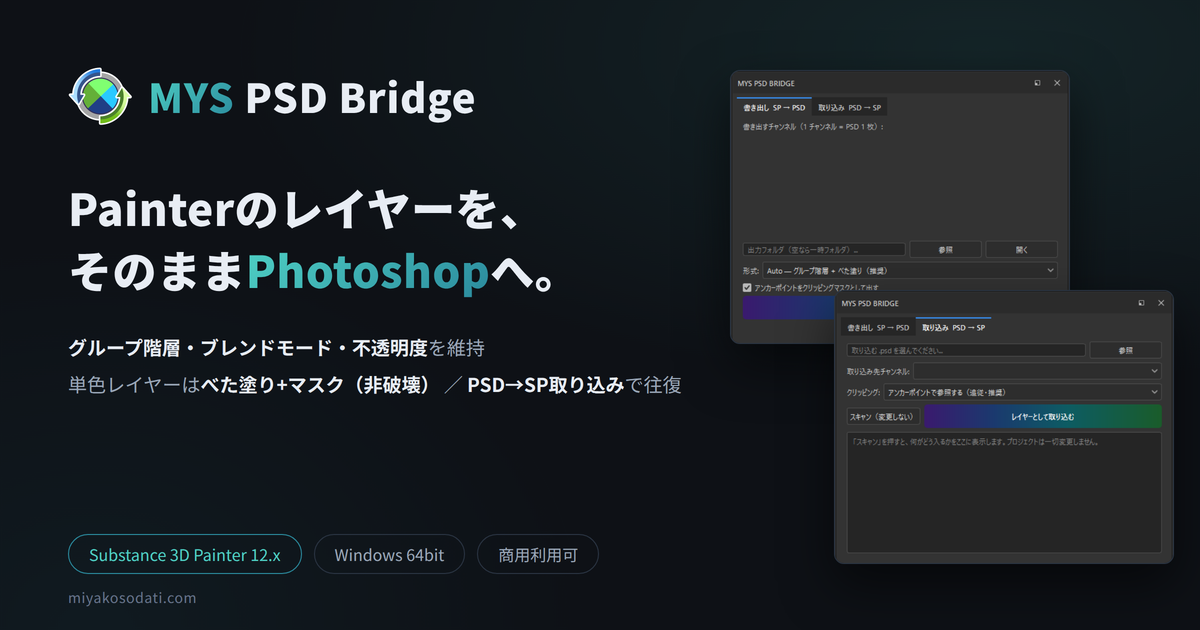
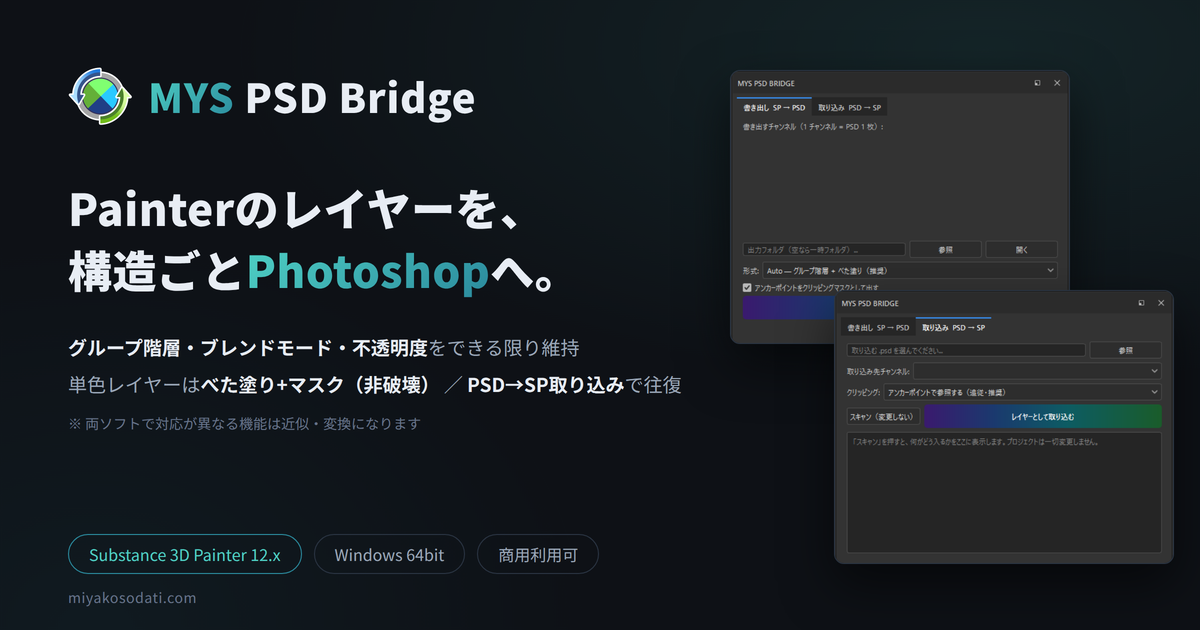
PSD Bridgeの表現を調整(できる限り保持・近似あり)、サマリー画像v2

Changed region(s): [[0.0617, 0.3921, 0.2158, 0.4825], [0.0617, 0.6635, 0.3392, 0.6937], [0.37, 0.5429, 0.4933, 0.573]]

diff --git a/tools/psd-bridge/index.html b/tools/psd-bridge/index.html
@@ -4,9 +4,9 @@
 <meta charset="UTF-8">
 <meta name="viewport" content="width=device-width, initial-scale=1.0">
 <title>MYS PSD Bridge — Substance Painter ⇄ Photoshop レイヤー変換 | MYS Tools</title>
-<meta name="description" content="Substance 3D Painter のレイヤースタックを構造を保ったままマルチレイヤーPSDへ書き出し、PSDからの取り込みにも対応する無償プラグイン。商用利用可。">
-<meta property="og:title" content="MYS PSD Bridge — Painterのレイヤーを、そのままPhotoshopへ。">
-<meta property="og:description" content="グループ階層・ブレンドモード・不透明度を維持してマルチレイヤーPSDへ。単色レイヤーはべた塗り+マスク(非破壊)、PSD→SP取り込みで往復対応。無償・商用利用可。">
+<meta name="description" content="Substance 3D Painter のレイヤースタックを、構造をできる限り保ったままマルチレイヤーPSDへ書き出し、PSDからの取り込みにも対応する無償プラグイン。商用利用可。">
+<meta property="og:title" content="MYS PSD Bridge — Painterのレイヤーを、構造ごとPhotoshopへ。">
+<meta property="og:description" content="グループ階層・ブレンドモード・不透明度をできる限り保ってマルチレイヤーPSDへ。単色レイヤーはべた塗り+マスク(非破壊)、PSD→SP取り込みで往復対応。無償・商用利用可。">
 <meta property="og:url" content="https://miyakosodati.com/tools/psd-bridge/">
 <meta property="og:image" content="https://miyakosodati.com/assets/img/psd-bridge/summary.png">
 <meta name="twitter:card" content="summary_large_image">
@@ -28,7 +28,7 @@
   <div class="tool-head">
     <div class="crumb"><a href="/">MYS Tools</a> / PSD Bridge</div>
     <h1>MYS PSD Bridge</h1>
-    <div class="tag">Substance 3D Painter と Photoshop を、レイヤー構造を保ったまま行き来させるプラグイン</div>
+    <div class="tag">Substance 3D Painter と Photoshop を、レイヤー構造をできる限り保ったまま行き来させるプラグイン</div>
     <div class="badges">
       <span class="bd dcc">Substance 3D Painter 12.x</span>
       <span class="bd">Windows 64bit</span>
@@ -40,11 +40,11 @@
     </div>
   </div>
 
-  <img class="figure" src="/assets/img/psd-bridge/summary.png" alt="MYS PSD Bridge — Painterのレイヤーを、そのままPhotoshopへ。">
+  <img class="figure" src="/assets/img/psd-bridge/summary.png" alt="MYS PSD Bridge — Painterのレイヤーを、構造ごとPhotoshopへ。">
 
   <h2 class="sec">できること</h2>
   <ul>
-    <li><strong>書き出し</strong> — Painter のレイヤースタックを、グループ階層・ブレンドモード・不透明度・表示状態を保ったままマルチレイヤー PSD にします。単色のレイヤーは Photoshop 側で色を変えられる「べた塗りレイヤー + マスク」になり、質感のあるレイヤーはピクセルレイヤーになります。チャンネルごとに PSD 1 枚です。</li>
+    <li><strong>書き出し</strong> — Painter のレイヤースタックを、グループ階層・ブレンドモード・不透明度・表示状態をできる限り保ったままマルチレイヤー PSD にします。両ソフトで対応が異なる機能は近似・変換になります（下の「承知しておきたいこと」参照）。単色のレイヤーは Photoshop 側で色を変えられる「べた塗りレイヤー + マスク」になり、質感のあるレイヤーはピクセルレイヤーになります。チャンネルごとに PSD 1 枚です。</li>
     <li><strong>取り込み</strong> — PSD を Painter のレイヤースタックに戻します。べた塗りレイヤーは画像を経由せず単色フィルとして復元されるため、往復しても劣化しません。取り込みは Ctrl+Z 一回で元に戻せます。</li>
     <li>アンカーポイント参照を Photoshop のクリッピングマスクとして書き出すオプションにも対応しています。</li>
   </ul>
@@ -65,6 +65,7 @@
   <p>Painter を起動し、メニューの <code>Python → Reload Plugins Folder</code> を実行すると、<code>Python</code> メニューに <code>MYS_PSDBridge</code> が現れます。初回起動のみ、同梱ライブラリの展開に十数秒かかります。詳しい使いかたは同梱の README をご覧ください。</p>
 
   <h2 class="sec">承知しておきたいこと（既知の制限）</h2>
+  <p>両ソフトの機能は 1:1 では対応しないため、本ツールは「管理しやすい形をできる限り保って変換する」方針です。対応の無い機能まで完全に補完するものではありません。代表的な制限は以下のとおりです。</p>
   <ul>
     <li><strong>UV の島の外は描けません。</strong> Painter は UV の島に覆われたテクセルしか描画できないため、島の外側は透明のまま書き出されます。</li>
     <li><strong>Photoshop のクリッピングマスクは、取り込み時に Painter 側へそのままは持ち込めません</strong>（Painter API に設定する口が無いため）。取り込み時の扱いはオプションで選べます。</li>

diff --git a/index.html b/index.html
@@ -43,7 +43,7 @@
         <span class="st live">公開中</span>
         <img class="icon" src="/assets/icons/psd-bridge.png" alt="MYS PSD Bridge">
         <h3>MYS PSD Bridge</h3>
-        <p>Substance Painter のレイヤースタックを、構造を保ったままマルチレイヤーPSDへ。PSDからの取り込み（往復）にも対応。</p>
+        <p>Substance Painter のレイヤースタックを、構造をできる限り保ったままマルチレイヤーPSDへ。PSDからの取り込み（往復）にも対応。</p>
         <div class="badges"><span class="bd dcc">Substance Painter</span><span class="bd">Photoshop連携</span></div>
       </a>
 
